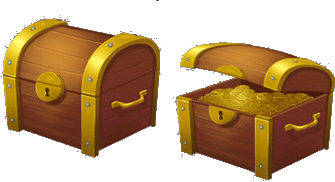
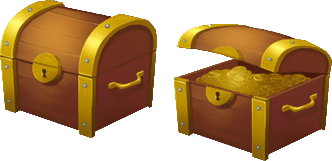
Starting Treasure Item

diff --git a/Project XIII/Assets/TreasureScript.cs b/Project XIII/Assets/TreasureScript.cs
@@ -1,0 +1,68 @@
+using System.Collections;
+using System.Collections.Generic;
+using UnityEngine;
+
+public class TreasureScript : ItemHitTrigger {
+    public float shakeDuration = 0.5f;
+    public float shakeMagnitude = 0.1f;  
+    public bool testMode = false;
+
+    public int hitsToOpen = 3;
+
+    Vector3 oldPosition;
+    // Use this for initialization
+    void Start ()
+    {
+        oldPosition = transform.position;
+        if (testMode)
+            PlayShake();
+    }
+	
+    public override void ItemHit()
+    {
+        PlayShake();
+
+        if (hitsToOpen == 0)
+            return;
+
+        if (hitsToOpen == 1)
+        {
+            transform.GetChild(0).gameObject.SetActive(false);
+            transform.GetChild(1).gameObject.SetActive(true);
+        }       
+        hitsToOpen--;
+    }
+    void PlayShake()
+    {
+
+        StopAllCoroutines();
+        StartCoroutine("Shake");
+    }
+
+    IEnumerator Shake()
+    {
+        float elapsed = 0.0f;
+
+        while (elapsed < shakeDuration)
+        {
+            elapsed += Time.deltaTime;
+            float percentComplete = 1 - (elapsed / shakeDuration);
+       
+            float quakeAmtY = Random.value * shakeMagnitude * 2 - shakeMagnitude;
+            float quakeAmtX = Random.value * shakeMagnitude * 2 - shakeMagnitude;
+            
+            Vector3 newPosition = transform.position;
+            newPosition.y += quakeAmtY;
+            newPosition.x += quakeAmtX;
+
+            newPosition.y = Mathf.Clamp(newPosition.y, oldPosition.y - shakeMagnitude * percentComplete, oldPosition.y + shakeMagnitude * percentComplete);
+            newPosition.x = Mathf.Clamp(newPosition.x, oldPosition.x - shakeMagnitude * percentComplete, oldPosition.x + shakeMagnitude * percentComplete);
+
+            //newPosition.x += Mathf.Sin(Time.time * speed);
+            transform.position = newPosition;
+            yield return null;
+        }
+        transform.position = oldPosition;
+
+    }
+}

diff --git a/Project XIII/Assets/Scripts/Camera/CamShakeScript.cs b/Project XIII/Assets/Scripts/Camera/CamShakeScript.cs
@@ -8,6 +8,7 @@ public class CamShakeScript : MonoBehaviour {
     public float speed = 20f;
     public float magnitude = 0.5f;
 
+    public bool useUnityPerlin = false;
     public bool test = false;
 
     public void PlayShake()
@@ -31,6 +32,7 @@ public class CamShakeScript : MonoBehaviour {
         StopAllCoroutines();
 
     }
+
     public void StartShake(float newMagnitude = 0.5f, float newDuration = 1f, float newSpeed = 20f)
     {
         duration = newDuration;
@@ -62,9 +64,18 @@ public class CamShakeScript : MonoBehaviour {
             // Calculate the noise parameter starting randomly and going as fast as speed allows
             float alpha = randomStart + speed * percentComplete;
 
-            // map noise to [-1, 1]
-            float x = Util.Noise.GetNoise(alpha, 0.0f, 0.0f) * 2.0f - 1.0f;
-            float y = Util.Noise.GetNoise(0.0f, alpha, 0.0f) * 2.0f - 1.0f;
+            // map noise in perlin noise
+            float x, y;
+            if (useUnityPerlin)
+            {
+                x = Mathf.PerlinNoise(alpha, 0.0f) * 2.0f - 1.0f;
+                y = Mathf.PerlinNoise(0.0f, alpha) * 2.0f - 1.0f;
+            }
+            else
+            {
+                x = Util.Noise.GetNoise(alpha, 0.0f, 0.0f) * 2.0f - 1.0f;
+                y = Util.Noise.GetNoise(0.0f, alpha, 0.0f) * 2.0f - 1.0f;
+            }
 
             x *= magnitude * damper;
             y *= magnitude * damper;

diff --git a/Project XIII/Assets/Scripts/Players/Swordsman/SwordsmanAttackScript.cs b/Project XIII/Assets/Scripts/Players/Swordsman/SwordsmanAttackScript.cs
@@ -49,7 +49,7 @@ public class SwordsmanAttackScript : MonoBehaviour {
     string attack = "";
     int damage;
 
-    enum HitType {normal, finisher, crystal};
+    enum HitType {normal, finisher, item};
     PlayerSoundEffects playerSoundEffects;
     SwordsmanParticleEffects playerParticleEffects;
     PlayerProperties playProp;
@@ -350,7 +350,7 @@ public class SwordsmanAttackScript : MonoBehaviour {
             playerSoundEffects.PlayHitSpark();
             playerParticleEffects.PlayFinisherHitSpark(position);
         }
-        else if(hitType == HitType.crystal)
+        else if(hitType == HitType.item)
         {
             playerSoundEffects.PlayHitSpark();
             playerParticleEffects.PlayHitSpark(position);
@@ -360,10 +360,10 @@ public class SwordsmanAttackScript : MonoBehaviour {
 
     void CrystalHit(Collider2D collider)
     {
-        if (collider.tag == "Crystal")
+        if (collider.tag == "Item")
         {
-            HitEffect(HitType.crystal, collider.transform.position);
-            collider.GetComponent<CrystalProperties>().SwitchColor();
+            HitEffect(HitType.item, collider.transform.position);
+            collider.GetComponent<ItemHitTrigger>().ItemHit();
         }
     }
 

diff --git a/Project XIII/Assets/CrystalProperties.cs b/Project XIII/Assets/CrystalProperties.cs
@@ -7,7 +7,7 @@ public enum ColorChoice
     red, blue, green
 }
 
-public class CrystalProperties : MonoBehaviour {
+public class CrystalProperties : ItemHitTrigger {
 
     public AudioClip crystalHit;
     public ColorChoice correctColor;
@@ -26,7 +26,7 @@ public class CrystalProperties : MonoBehaviour {
         puzzleManager = transform.parent.GetComponent<PuzzleManager>();
     }
 
-    public void SwitchColor()
+    public override void ItemHit()
     {
         myAudio.PlayOneShot(crystalHit);
         hitParticle.Play();

diff --git a/Project XIII/Assets/ItemHitTrigger.cs b/Project XIII/Assets/ItemHitTrigger.cs
@@ -1,0 +1,8 @@
+using System.Collections;
+using System.Collections.Generic;
+using UnityEngine;
+
+public abstract class ItemHitTrigger : MonoBehaviour {
+
+    abstract public void ItemHit();  
+}
